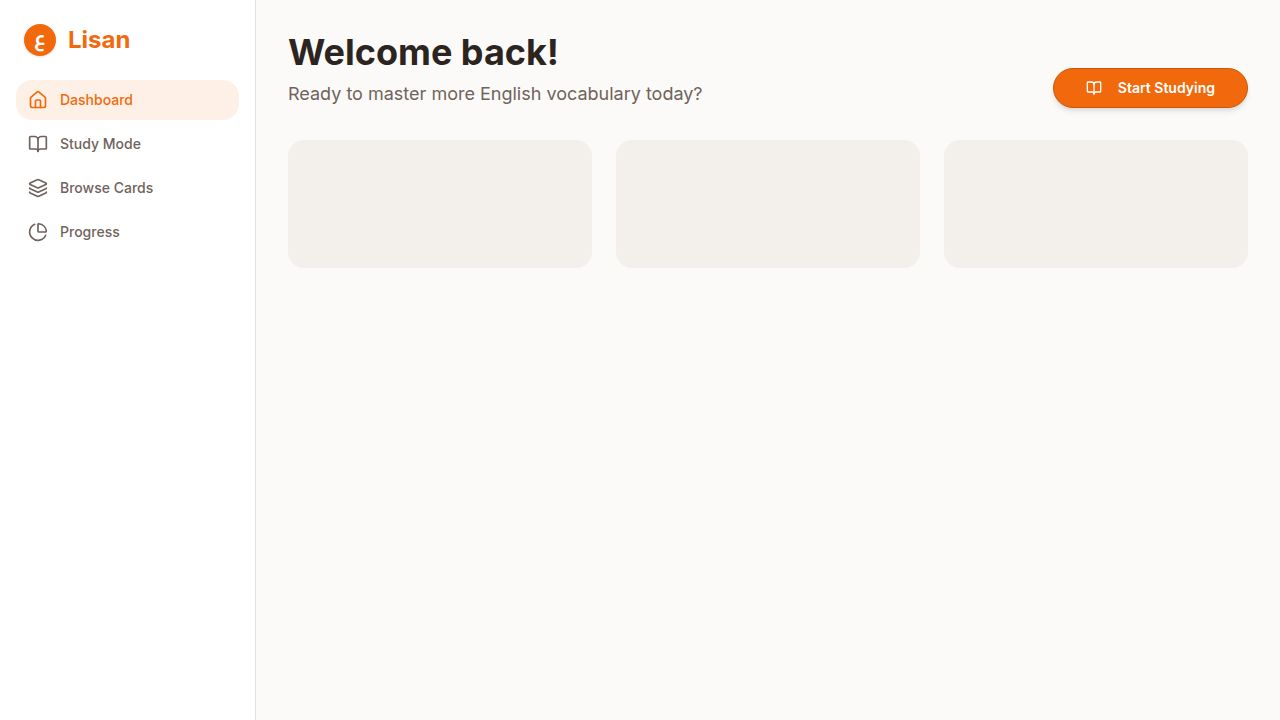
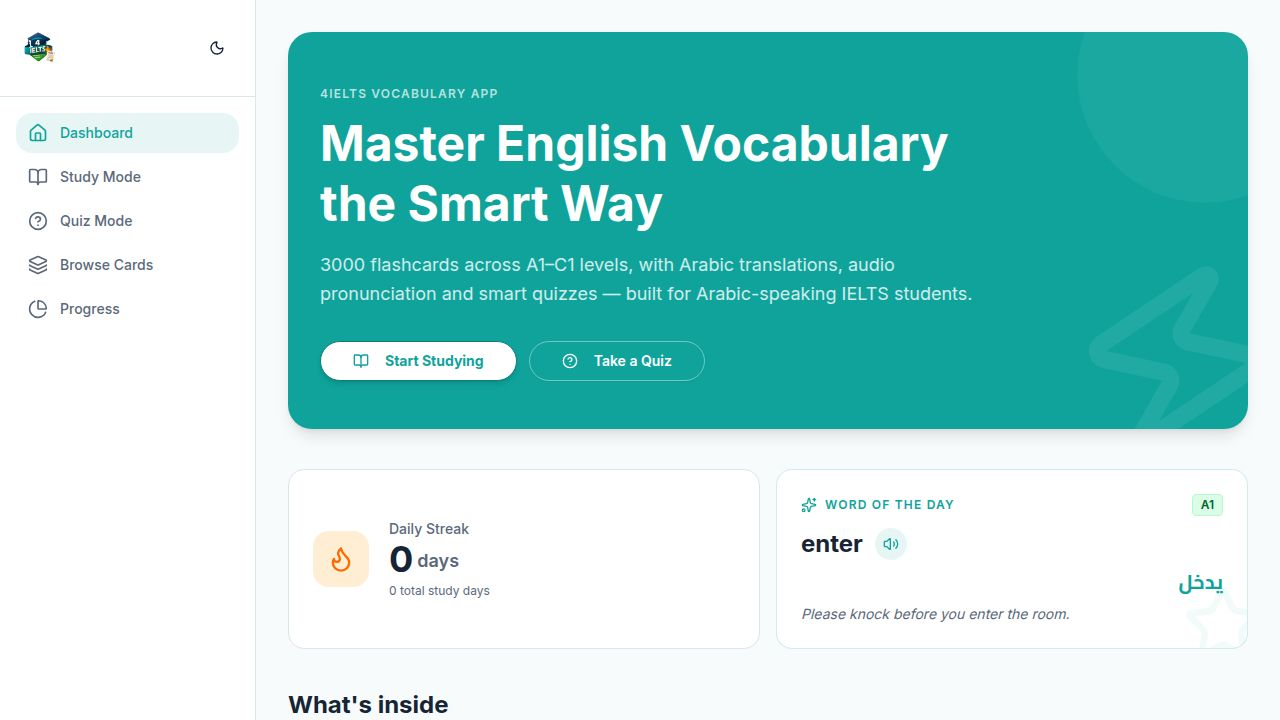
Update PDF download status to show generation progress
Fix issue where PDF download status was stuck on "Checking..." by updating the UI to reflect "Generating PDF..." when the file is being created on the server.

Replit-Commit-Author: Agent
Replit-Commit-Session-Id: e93a7456-801c-46fc-a374-cd329bae6e1e
Replit-Commit-Checkpoint-Type: full_checkpoint
Replit-Commit-Event-Id: 88a2126a-f004-4494-9db3-b6f71219293a
Replit-Commit-Screenshot-Url: https://storage.googleapis.com/screenshot-production-us-central1/12ccca23-bba3-4fa4-a59b-c0d4091b23ef/e93a7456-801c-46fc-a374-cd329bae6e1e/jN32cVN
Replit-Helium-Checkpoint-Created: true

diff --git a/artifacts/flashcards/src/pages/home.tsx b/artifacts/flashcards/src/pages/home.tsx
@@ -28,6 +28,7 @@ function VocabDownloadSection() {
       if (data.status === "not_started") {
         fetch("/api/vocab-pdf").catch(() => {});
       }
+      setPdfState("generating");
       if (attempt < 72) {
         setTimeout(() => poll(attempt + 1), 5000);
       } else {
@@ -35,6 +36,7 @@ function VocabDownloadSection() {
         setPdfState("error");
       }
     } catch {
+      setPdfState("generating");
       if (attempt < 5) {
         setTimeout(() => poll(attempt + 1), 3000);
       } else {